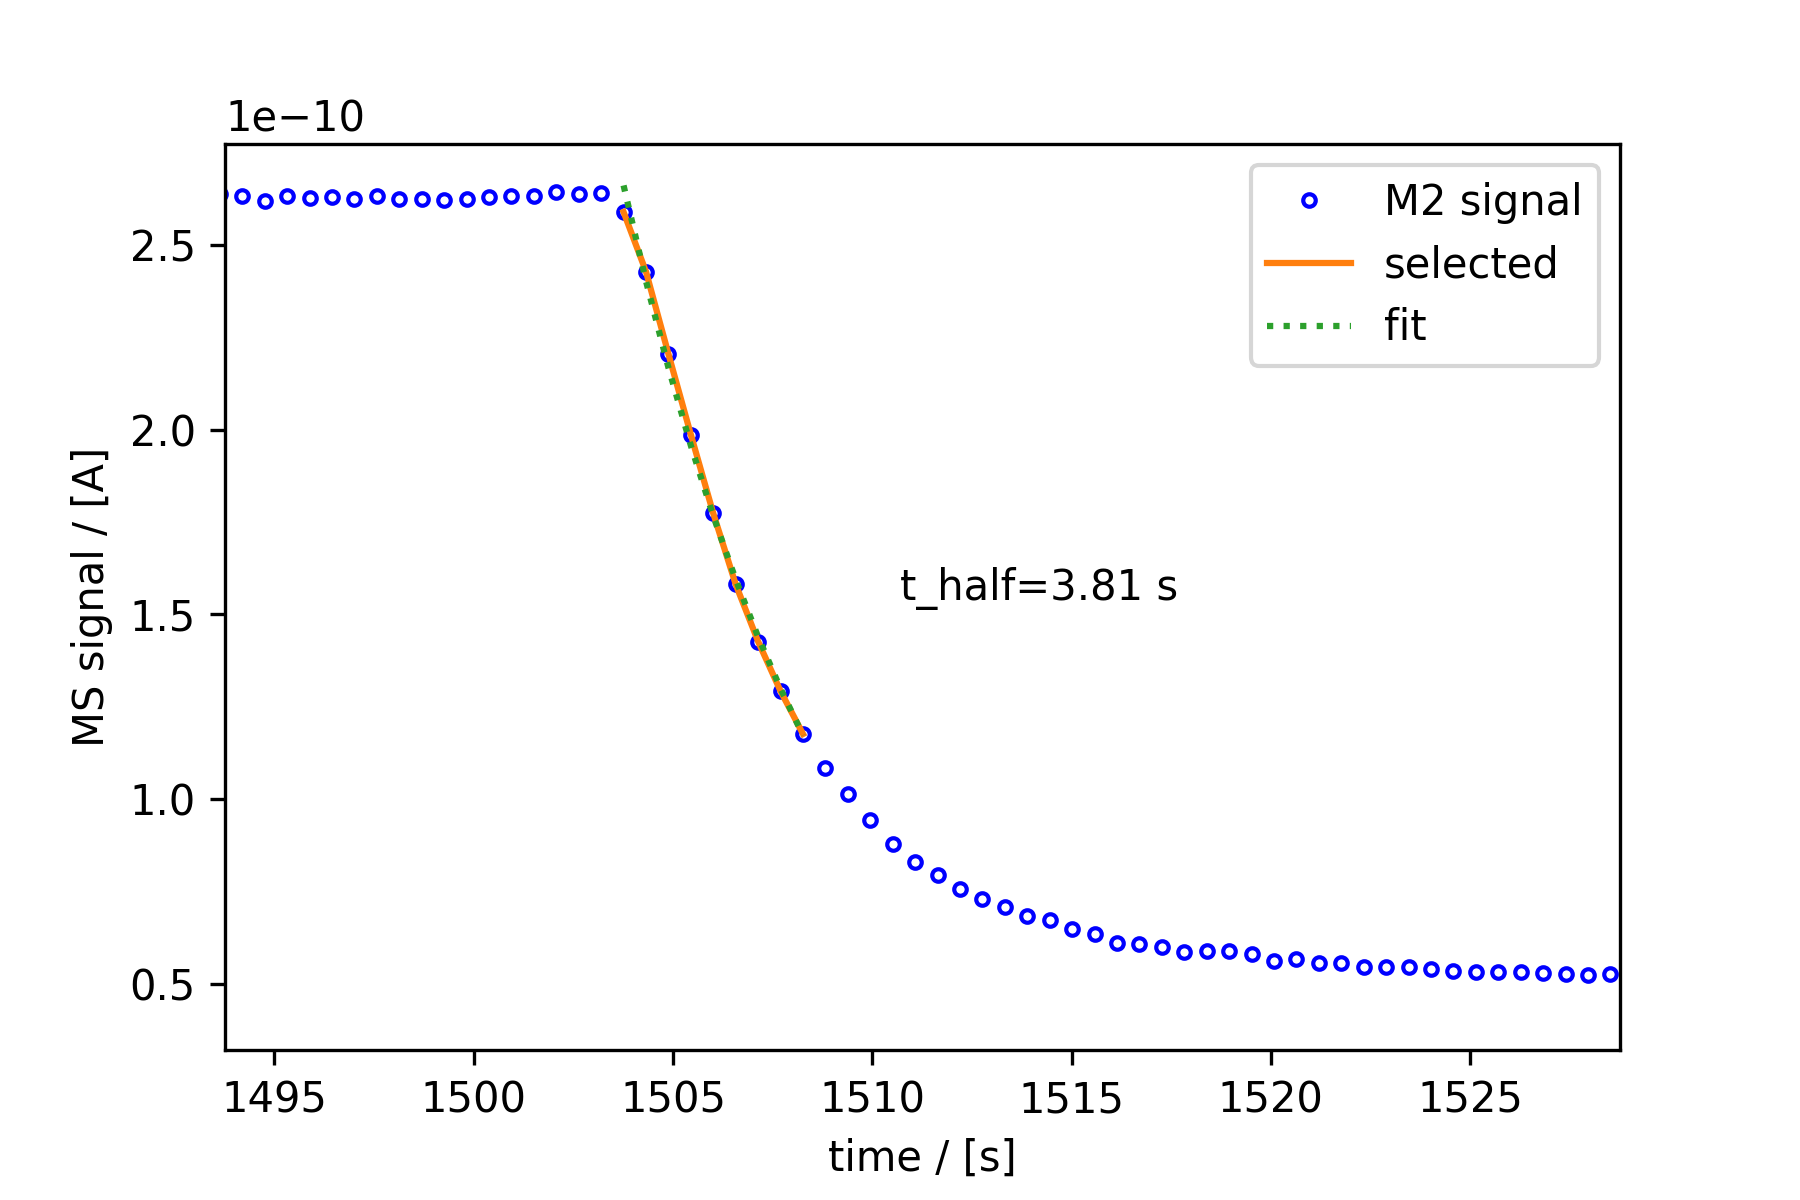
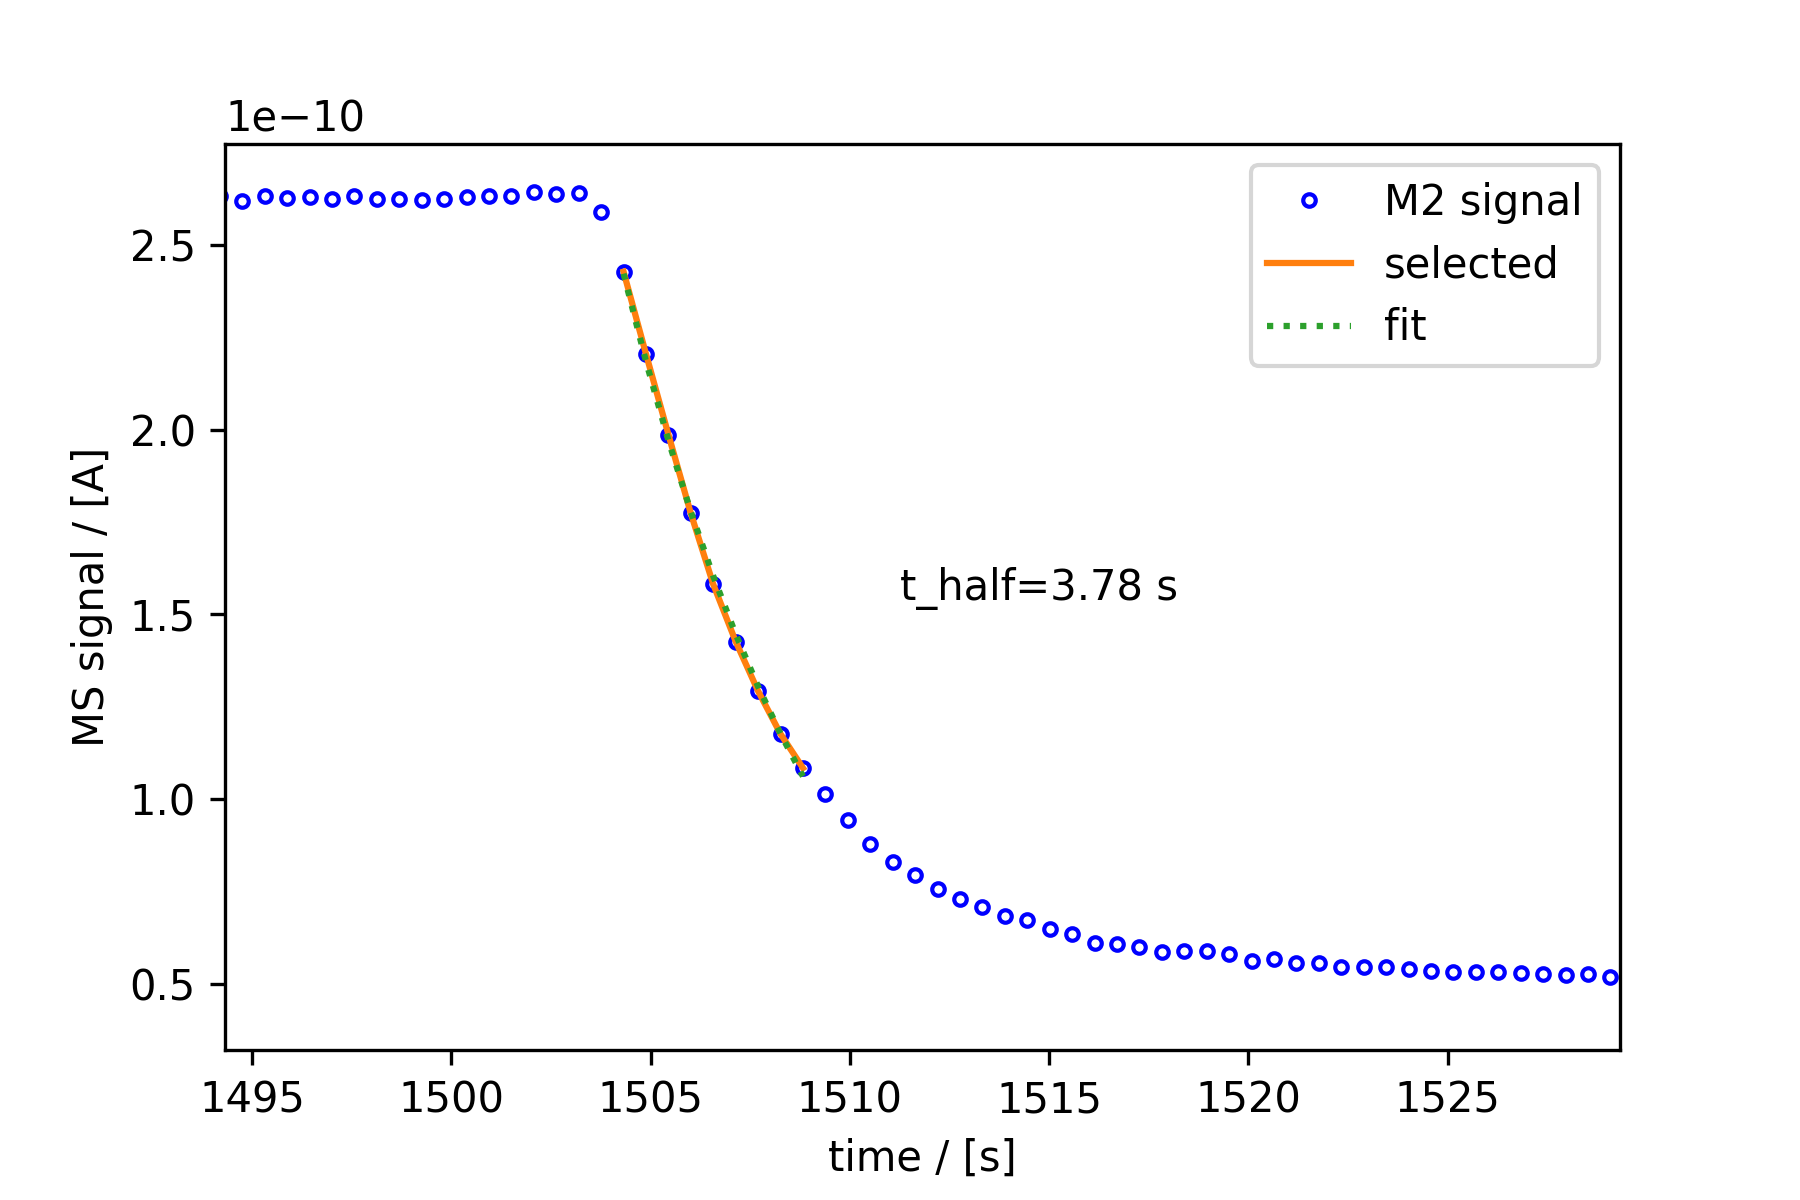
Add rule for automatic determination of decay cutoff

diff --git a/Benchmarking/RnD1system_benchmarking_analysis.py b/Benchmarking/RnD1system_benchmarking_analysis.py
@@ -80,7 +80,7 @@ def exp_fit_signal(data, signal, tspan, color=None):
         
         return t_half_sig, (fig, ax1)
     
-def find_decay_edge(data, signal, gradient_cutoff):
+def find_decay_edge(data, signal, gradient_cutoff=None):
         """
         Function to find time where a mass signal starts decaying 
         Parameters
@@ -99,11 +99,15 @@ def find_decay_edge(data, signal, gradient_cutoff):
         t_list: list of times where decay starts
         """
         t, m = data.grab(signal)
-        
         # now select the timespan where we want to fit the decay curve
         # the way below is probably not the smartest or most pythonic way, but
         # it seems to work for this type of data
-        # select the range where the mass signal is decreasing drastically (number chosen is a bit arbitraryly)
+        # define a cutoff for select the range where the mass signal is decreasing drastically 
+        # choice of this number is a bit arbitrary, but it seems to work like this
+        
+        if gradient_cutoff is None:
+            gradient_cutoff = -np.max(m)/25
+                
         mask1 = np.where(np.gradient(m)<gradient_cutoff)
         # select the range where there is a step in the time because values are removed 
         # by the previous mask
@@ -155,7 +159,7 @@ if True: # plot and fit the HER QC
     fig_her.tight_layout()
     fig_her.savefig("./" + exp_name + "_HER_CP.png")
     signal = "M2"
-    t_list_clean = find_decay_edge(her, signal, gradient_cutoff=-1E-11)
+    t_list_clean = find_decay_edge(her, signal)#, gradient_cutoff=-1E-11)
     t_half_h2_list = []        
     for time in t_list_clean:
         t_half_h2, fig = exp_fit_signal(her, signal=signal, tspan=[time, time+5])
@@ -170,8 +174,8 @@ if True: # plot and fit the gas exchange QC
     axes_gas_ex = gas_exchange.ms_plotter.plot_measurement()
     fig_gas_ex = axes_gas_ex.get_figure()
     fig_gas_ex.savefig("./" + exp_name + "_gas_exchange.png")
-    times_ar = find_decay_edge(gas_exchange, "M40", gradient_cutoff=-1E-10)
-    times_he = find_decay_edge(gas_exchange, "M4", gradient_cutoff=-1E-10)
+    times_ar = find_decay_edge(gas_exchange, "M40") #, gradient_cutoff=-1E-10)
+    times_he = find_decay_edge(gas_exchange, "M4") #, gradient_cutoff=-1E-10)
     t_half_list = []
     for time in times_ar:
         t_half_ar, fig = exp_fit_signal(gas_exchange, signal="M40", tspan=[time, time+5])
